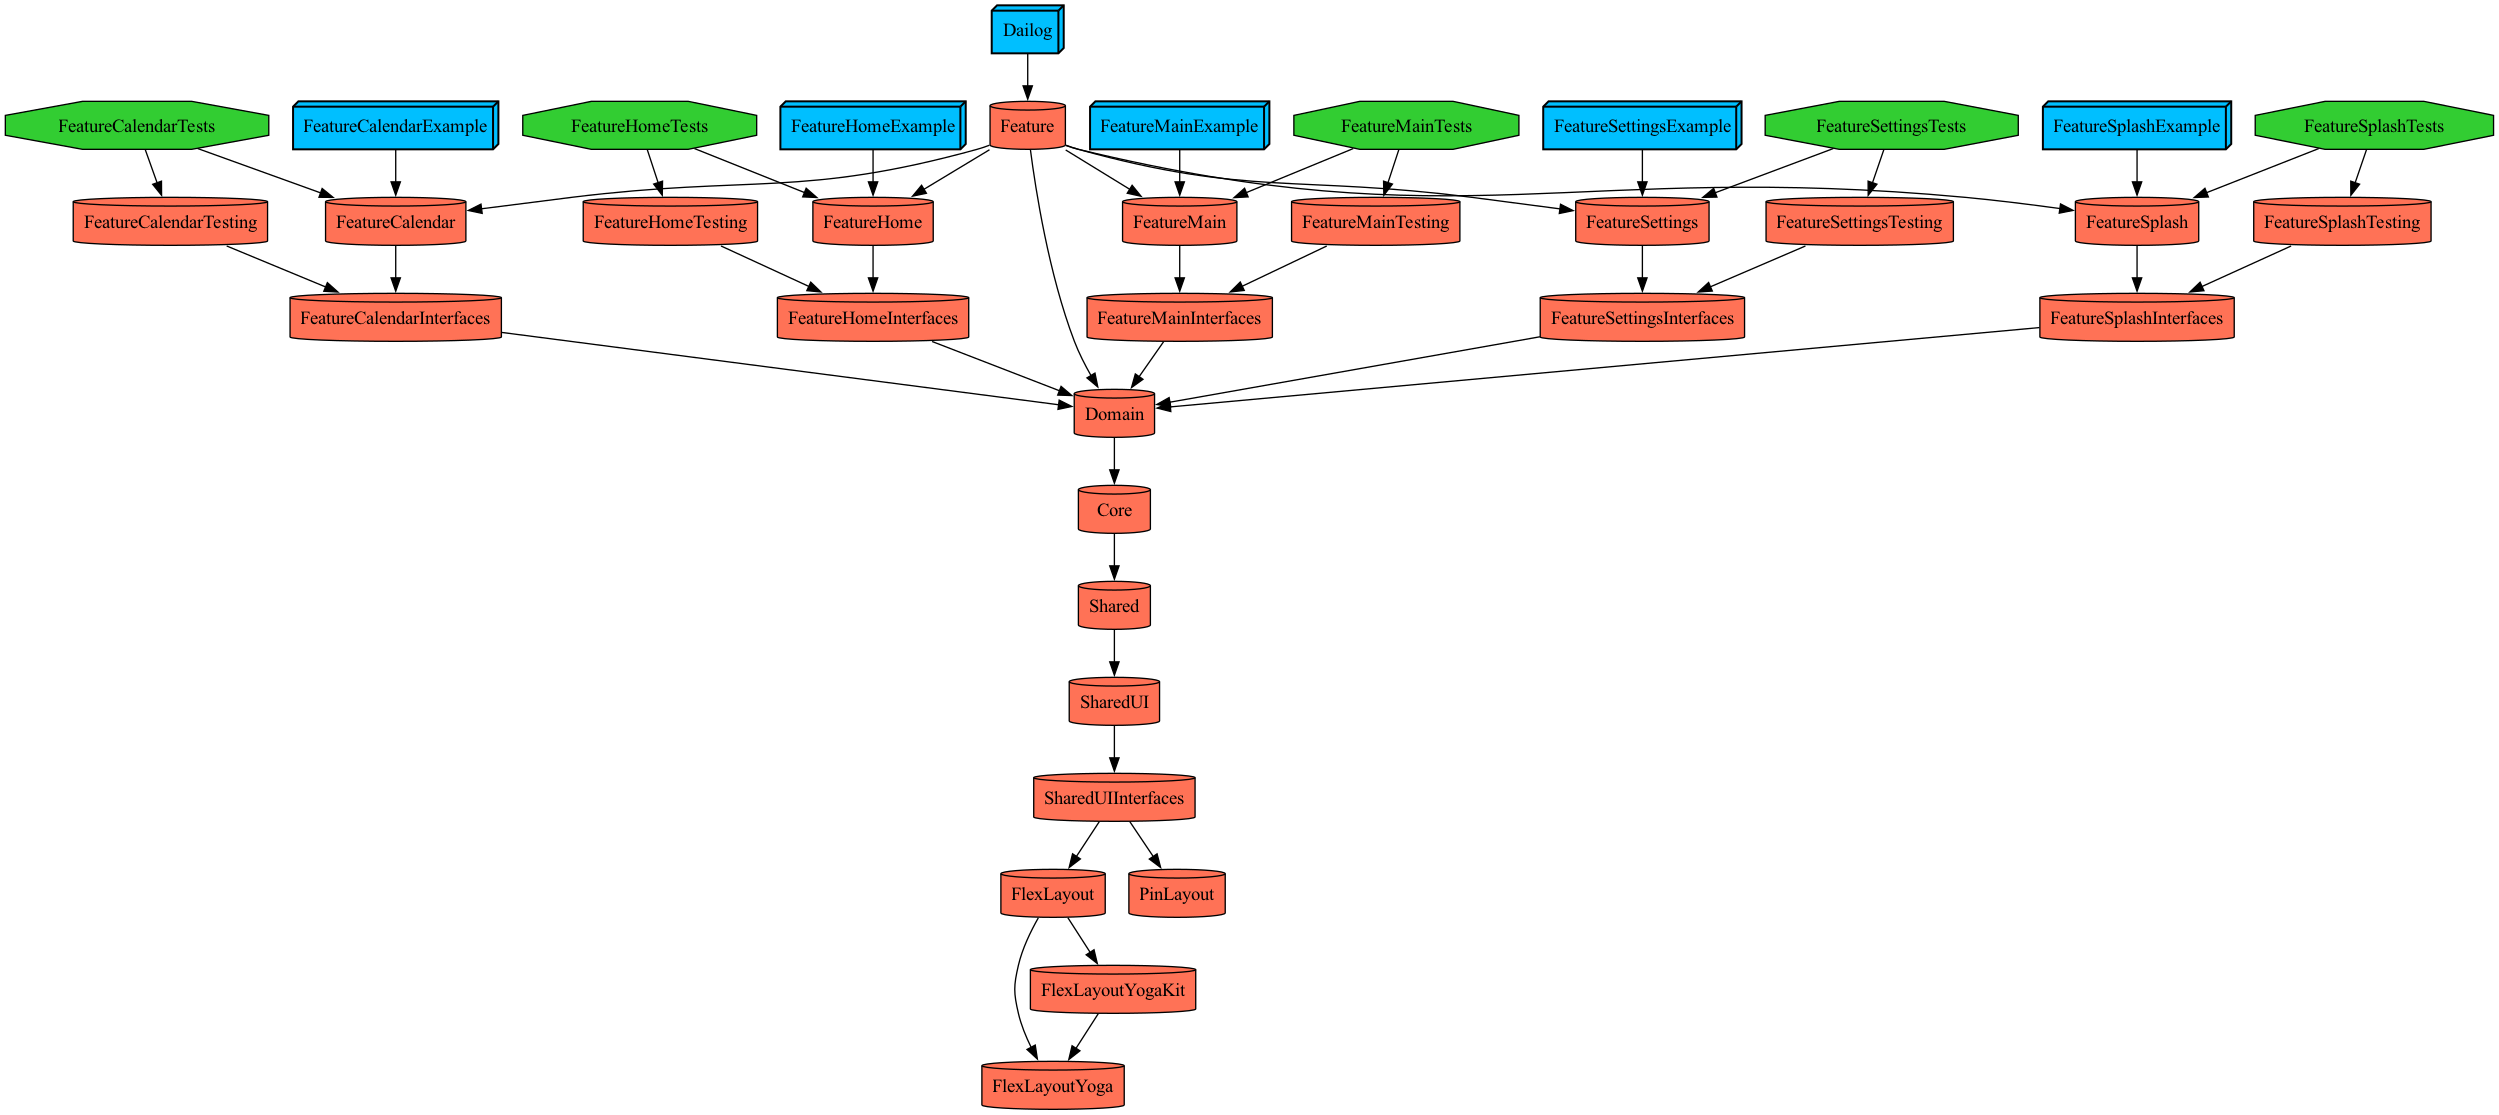
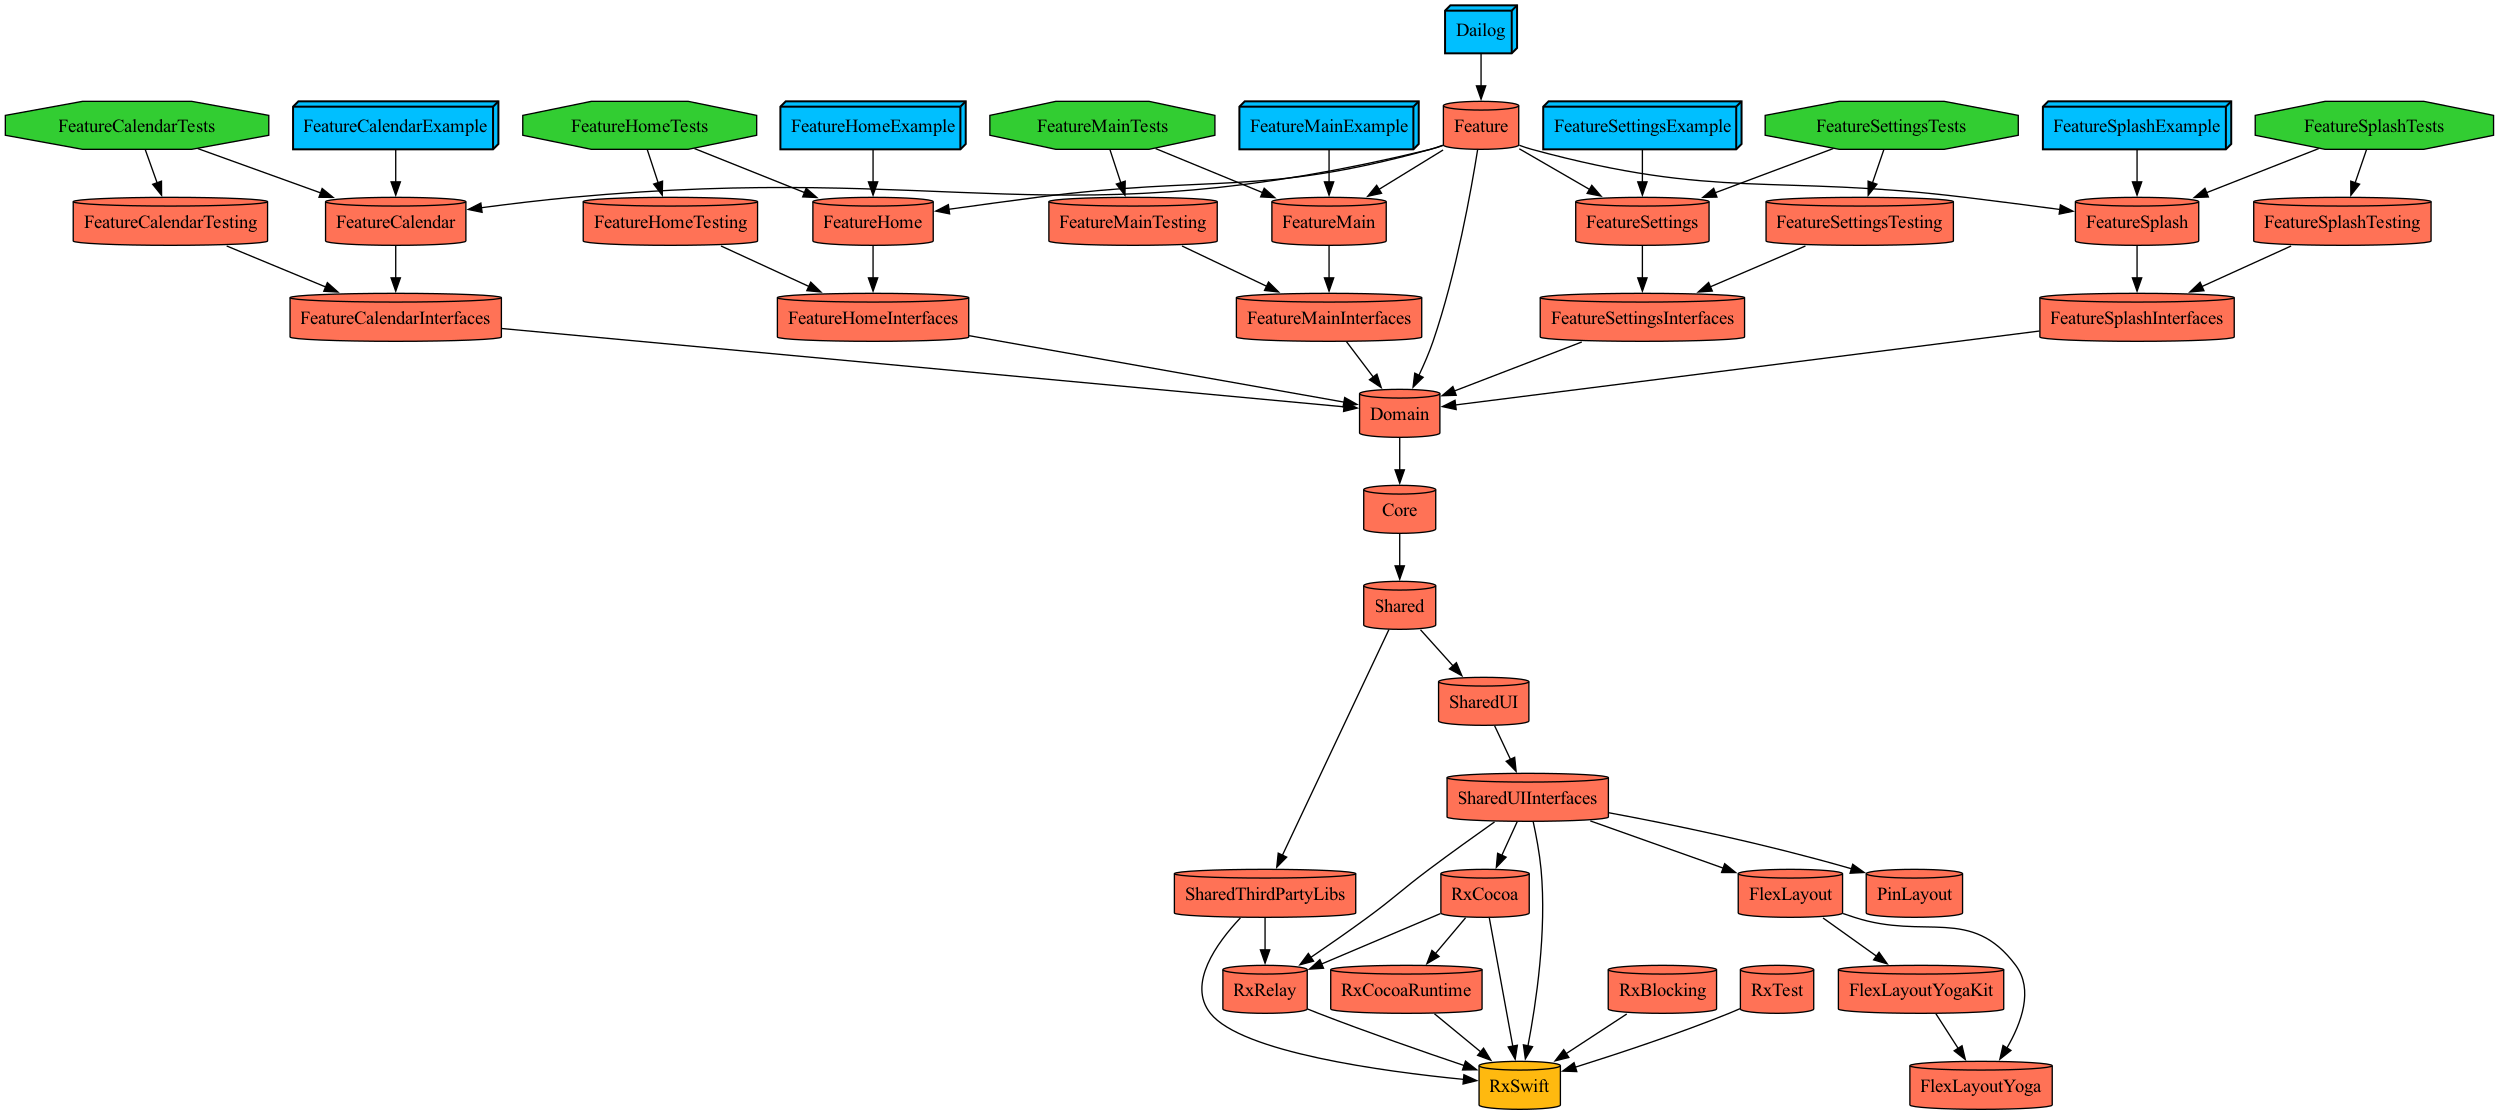
Commit

diff --git a/Projects/Feature/Splash/Sources/SplashScene/ViewModel/DefaultSplashViewModel.swift b/Projects/Feature/Splash/Sources/SplashScene/ViewModel/DefaultSplashViewModel.swift
@@ -1,0 +1,71 @@
+//
+//  DefaultSplashViewModel.swift
+//  FeatureSplash
+//
+//  Created by 박승호 on 2/22/25.
+//  Copyright © 2025 DevLabs Co. All rights reserved.
+//
+
+import Foundation
+import RxSwift
+import AppTrackingTransparency
+import AdAttributionKit
+import FeatureSplashInterfaces
+import UserNotifications
+
+public final class DefaultSplashViewModel: SplashViewModel {
+    public let disposeBag = DisposeBag()
+    public var action: SplashViewModelAction
+    
+    public init(action: SplashViewModelAction) {
+        self.action = action
+    }
+    
+    public func transform(input: FeatureSplashInterfaces.SplashViewModelInput) -> FeatureSplashInterfaces.SplashViewModelOutput {
+        
+        input.viewDidAppear
+            .withUnretained(self)
+            .flatMap { owner, _ in
+                return owner.requestAppTrackingPermission()
+            }
+            .withUnretained(self)
+            .flatMap { owner, _ in
+                return owner.requestPushNotificationPermission()
+            }
+            .map { _ in
+                //TODO: Login 여부 체크 -
+            }
+            .bind(onNext: action.showMainScene)
+            .disposed(by: disposeBag)
+        
+        return .init()
+    }
+    
+    public func requestPushNotificationPermission() -> Observable<Bool> {
+        return Observable.create { observer in
+            UNUserNotificationCenter.current().requestAuthorization(options: [.alert, .badge, .sound]) { granted, error in
+                if let error = error {
+                    observer.onError(error)
+                } else {
+                    observer.onNext(granted)
+                    observer.onCompleted()
+                }
+            }
+            
+            return Disposables.create()
+        }
+    }
+    
+    public func requestAppTrackingPermission() -> Observable<String> {
+        return Observable.create { observer in
+            
+            ATTrackingManager.requestTrackingAuthorization() { auth in
+                if auth == .notDetermined { return }
+                observer.onNext("")
+                observer.onCompleted()
+            }
+            
+            return Disposables.create()
+        }
+    }
+}

diff --git a/Projects/Feature/Splash/Sources/DefaultSplashSceneFlowCoordinator.swift b/Projects/Feature/Splash/Sources/DefaultSplashSceneFlowCoordinator.swift
@@ -10,8 +10,8 @@ import UIKit
 import FeatureSplashInterfaces
 
 public final class DefaultSplashSceneFlowCoordinator: SplashSceneFlowCoordinator {
-    private var dependencies: SplashSceneFlowCoordinatorDependencies
-    public var navigationController: UINavigationController
+    public let dependencies: SplashSceneFlowCoordinatorDependencies
+    public let navigationController: UINavigationController
     
     public init(navigationController: UINavigationController, dependencies: SplashSceneFlowCoordinatorDependencies) {
         self.navigationController = navigationController
@@ -19,6 +19,25 @@ public final class DefaultSplashSceneFlowCoordinator: SplashSceneFlowCoordinator
     }
     
     public func start() {
-        transition(scene: SplashScene.splash(dependencies.makeSplashViewModel()), transitionStyle: .root, animated: false)
+        transition(
+            scene: SplashScene.splash(
+                dependencies.makeSplashViewModel(
+                    action: .init(
+                        showMainScene: showMainScene,
+                        showLoginScene: showLoginScene
+                    )
+                )
+            ),
+            transitionStyle: .root,
+            animated: false
+        )
+    }
+    
+    public func showMainScene() {
+        print("ShowMainScene")
+    }
+    
+    public func showLoginScene() {
+        print("ShowLoginScene")
     }
 }

diff --git a/Projects/Shared/UI/Sources/Extensions/UIViewController+Rx.swift b/Projects/Shared/UI/Sources/Extensions/UIViewController+Rx.swift
@@ -1,0 +1,38 @@
+//
+//  UIViewController+Rx.swift
+//  SharedUI
+//
+//  Created by 박승호 on 2/22/25.
+//  Copyright © 2025 DevLabs Co. All rights reserved.
+//
+
+import RxSwift
+import RxCocoa
+import UIKit
+
+public extension Reactive where Base: UIViewController {
+    var viewDidLoad: ControlEvent<Void> {
+        let source = self.methodInvoked(#selector(Base.viewDidLoad)).map { _ in }
+        return ControlEvent(events: source)
+    }
+    
+    var viewWillAppear: ControlEvent<Bool> {
+        let source = self.methodInvoked(#selector(Base.viewWillAppear)).map { $0.first as? Bool ?? false }
+        return ControlEvent(events: source)
+    }
+    
+    var viewDidAppear: ControlEvent<Bool> {
+        let source = self.methodInvoked(#selector(Base.viewDidAppear)).map { $0.first as? Bool ?? false }
+        return ControlEvent(events: source)
+    }
+    
+    var viewWillDisappear: ControlEvent<Bool> {
+        let source = self.methodInvoked(#selector(Base.viewWillDisappear)).map { $0.first as? Bool ?? false }
+        return ControlEvent(events: source)
+    }
+    
+    var viewDidDisappear: ControlEvent<Bool> {
+        let source = self.methodInvoked(#selector(Base.viewDidDisappear)).map { $0.first as? Bool ?? false }
+        return ControlEvent(events: source)
+    }
+}

diff --git a/Projects/Feature/Splash/Interfaces/Sources/SplashViewModel.swift b/Projects/Feature/Splash/Interfaces/Sources/SplashViewModel.swift
@@ -8,10 +8,27 @@
 
 import Foundation
 import SharedUIInterfaces
+import RxSwift
+
+public struct SplashViewModelAction {
+    public let showMainScene: ()-> Void
+    public let showLoginScene: ()-> Void
+    
+    public init(
+        showMainScene: @escaping ()-> Void,
+        showLoginScene: @escaping ()-> Void
+    ) {
+        self.showMainScene = showMainScene
+        self.showLoginScene = showLoginScene
+    }
+}
 
 public struct SplashViewModelInput {
+    public let viewDidAppear: Observable<Void>
     
-    public init() {  }
+    public init(viewDidAppear: Observable<Void>) {
+        self.viewDidAppear = viewDidAppear
+    }
 }
 
 public struct SplashViewModelOutput {
@@ -20,5 +37,8 @@ public struct SplashViewModelOutput {
 }
 
 public protocol SplashViewModel: ViewModel where Input == SplashViewModelInput, Output == SplashViewModelOutput {
+    var action: SplashViewModelAction { get }
     
+    func requestPushNotificationPermission()-> Observable<Bool>
+    func requestAppTrackingPermission()-> Observable<String>
 }

diff --git a/Projects/Shared/UI/Interfaces/Sources/Scene/Coordinator.swift b/Projects/Shared/UI/Interfaces/Sources/Scene/Coordinator.swift
@@ -13,12 +13,14 @@ public protocol Coordinator {
     
     func start()
     
-    func transition(scene: Scene, transitionStyle: TransitionStyle, animated: Bool)
+    @discardableResult
+    func transition(scene: Scene, transitionStyle: TransitionStyle, animated: Bool)-> UIViewController
     func close(animated: Bool, completion: @escaping ()-> Void)
 }
 
 public extension Coordinator {
-    func transition(scene: Scene, transitionStyle: TransitionStyle, animated: Bool) {
+    @discardableResult
+    func transition(scene: Scene, transitionStyle: TransitionStyle, animated: Bool)-> UIViewController {
         let vc = scene.instantiate()
         
         switch transitionStyle {
@@ -48,6 +50,8 @@ public extension Coordinator {
         case .modal:
             navigationController.topViewController?.present(vc, animated: animated)
         }
+        
+        return vc
     }
     
     func close(animated: Bool, completion: @escaping ()-> Void) {

diff --git a/Projects/Feature/Splash/Sources/SplashScene/View/SplashViewController.swift b/Projects/Feature/Splash/Sources/SplashScene/View/SplashViewController.swift
@@ -36,6 +36,11 @@ public final class SplashViewController<VM: SplashViewModel>: DailogViewControll
         return view
     }()
     
+    public override func viewDidLoad() {
+        super.viewDidLoad()
+        
+    }
+    
     public override func configure() {
         super.configure()
         
@@ -52,13 +57,21 @@ public final class SplashViewController<VM: SplashViewModel>: DailogViewControll
             }
     }
     
+    public override func bind() {
+        super.bind()
+        
+        _ = viewModel.transform(
+            input: .init(
+                viewDidAppear: self.rx.viewDidAppear.map { _ in }.asObservable()
+            )
+        )
+    }
+    
     public override func viewDidLayoutSubviews() {
         super.viewDidLayoutSubviews()
         
         contentsView
             .pin
-            .width(of: view)
-            .top(25%)
-            .hCenter()
+            .vCenter(-7.4%)
     }
 }

diff --git a/Projects/Feature/Main/Sources/MainScene/View/MainViewController.swift b/Projects/Feature/Main/Sources/MainScene/View/MainViewController.swift
@@ -1,0 +1,31 @@
+//
+//  MainViewController.swift
+//  FeatureMain
+//
+//  Created by 박승호 on 2/22/25.
+//  Copyright © 2025 DevLabs Co. All rights reserved.
+//
+
+import UIKit
+import FeatureSplashInterfaces
+import FeatureMainInterfaces
+import SharedUI
+
+public final class MainViewController<VM: MainViewModel>: DailogViewController<VM> {
+    private lazy var tabController: UITabBarController = {
+        let tabBar = UITabBarController()
+        return tabBar
+    }()
+    
+    public override func configure() {
+        super.configure()
+        self.addChild(tabController)
+        self.view.addSubview(tabController.view)
+    }
+    
+    public override func viewDidLayoutSubviews() {
+        super.viewDidLayoutSubviews()
+        
+        tabController.view.pin.all(self.view.pin.safeArea)
+    }
+}

diff --git a/Projects/Shared/ThirdPartyLibs/Project.swift b/Projects/Shared/ThirdPartyLibs/Project.swift
@@ -1,0 +1,26 @@
+//
+//  Project.swift
+//  Manifests
+//
+//  Created by 박승호 on 2/22/25.
+//
+
+import ProjectDescription
+import ProjectDescriptionHelpers
+import ModulePlugin
+import ThirdPartyLibs
+
+let project: Project = .makeProject(
+    name: "Shared\(Module.Shared.thirdPartyLibs.rawValue)",
+    targets: [
+        .shared(
+            implements: .thirdPartyLibs,
+            factory: .init(
+                dependencies: [
+                    .SPM.RxSwift,
+                    .SPM.RxRelay
+                ]
+            )
+        )
+    ]
+)

diff --git a/Plugins/ThirdPartyLibs/ProjectDescriptionHelpers/ThirdParty+Dependency.swift b/Plugins/ThirdPartyLibs/ProjectDescriptionHelpers/ThirdParty+Dependency.swift
@@ -10,6 +10,8 @@ import ProjectDescription
 public extension ProjectDescription.TargetDependency {
     enum SPM {
         public static let RxSwift: TargetDependency = .external(name: "RxSwift")
+        public static let RxCocoa: TargetDependency = .external(name: "RxCocoa")
+        public static let RxRelay: TargetDependency = .external(name: "RxRelay")
         public static let FlexLayout: TargetDependency = .external(name: "FlexLayout")
         public static let PinLayout: TargetDependency = .external(name: "PinLayout")
     }

diff --git a/Projects/Feature/Splash/Interfaces/Sources/SplashSceneFlowCoordinator.swift b/Projects/Feature/Splash/Interfaces/Sources/SplashSceneFlowCoordinator.swift
@@ -10,9 +10,13 @@ import UIKit
 import SharedUIInterfaces
 
 public protocol SplashSceneFlowCoordinatorDependencies {
-    func makeSplashViewModel()-> any SplashViewModel
+    func makeSplashViewModel(action: SplashViewModelAction)-> any SplashViewModel
 }
 
 public protocol SplashSceneFlowCoordinator: Coordinator {
     
+    var dependencies: SplashSceneFlowCoordinatorDependencies { get }
+    
+    func showMainScene()
+    func showLoginScene()
 }

diff --git a/Projects/Feature/Splash/Sources/DefaultSplashSceneDIContainer.swift b/Projects/Feature/Splash/Sources/DefaultSplashSceneDIContainer.swift
@@ -18,7 +18,7 @@ public final class DefaultSplashSceneDIContainer: SplashSceneDIContainer {
 }
 
 extension DefaultSplashSceneDIContainer: SplashSceneFlowCoordinatorDependencies {
-    public func makeSplashViewModel() -> any SplashViewModel {
-        return DefaultSplashViewModel()
+    public func makeSplashViewModel(action: SplashViewModelAction) -> any SplashViewModel {
+        return DefaultSplashViewModel(action: action)
     }
 }

diff --git a/Projects/Application/Sources/SceneDelegate.swift b/Projects/Application/Sources/SceneDelegate.swift
@@ -21,7 +21,7 @@ class SceneDelegate: UIResponder, UIWindowSceneDelegate {
         window = UIWindow(windowScene: windowScene)
         
         let coordinator = AppCoordinator(navigationController: .init(), dependencies: appDIContainer)
-        
+        coordinator.navigationController.navigationBar.isHidden = true
         window?.rootViewController = coordinator.navigationController
         window?.makeKeyAndVisible()
         
